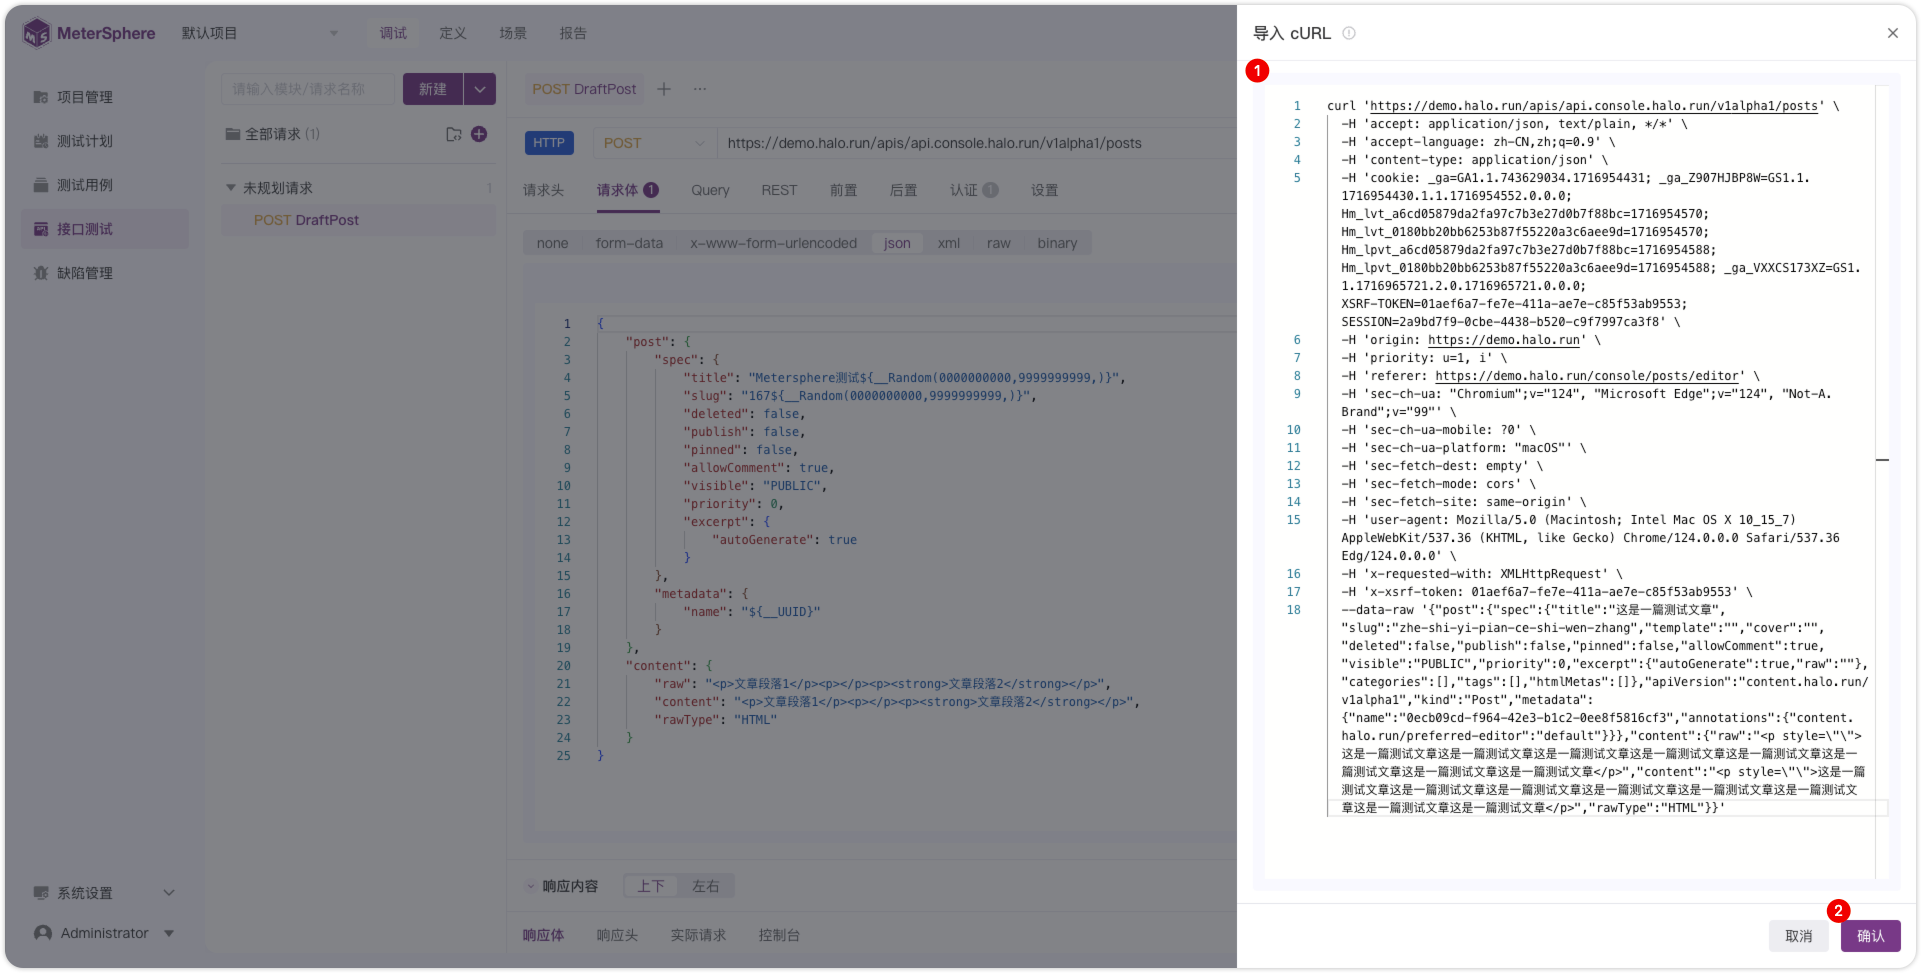
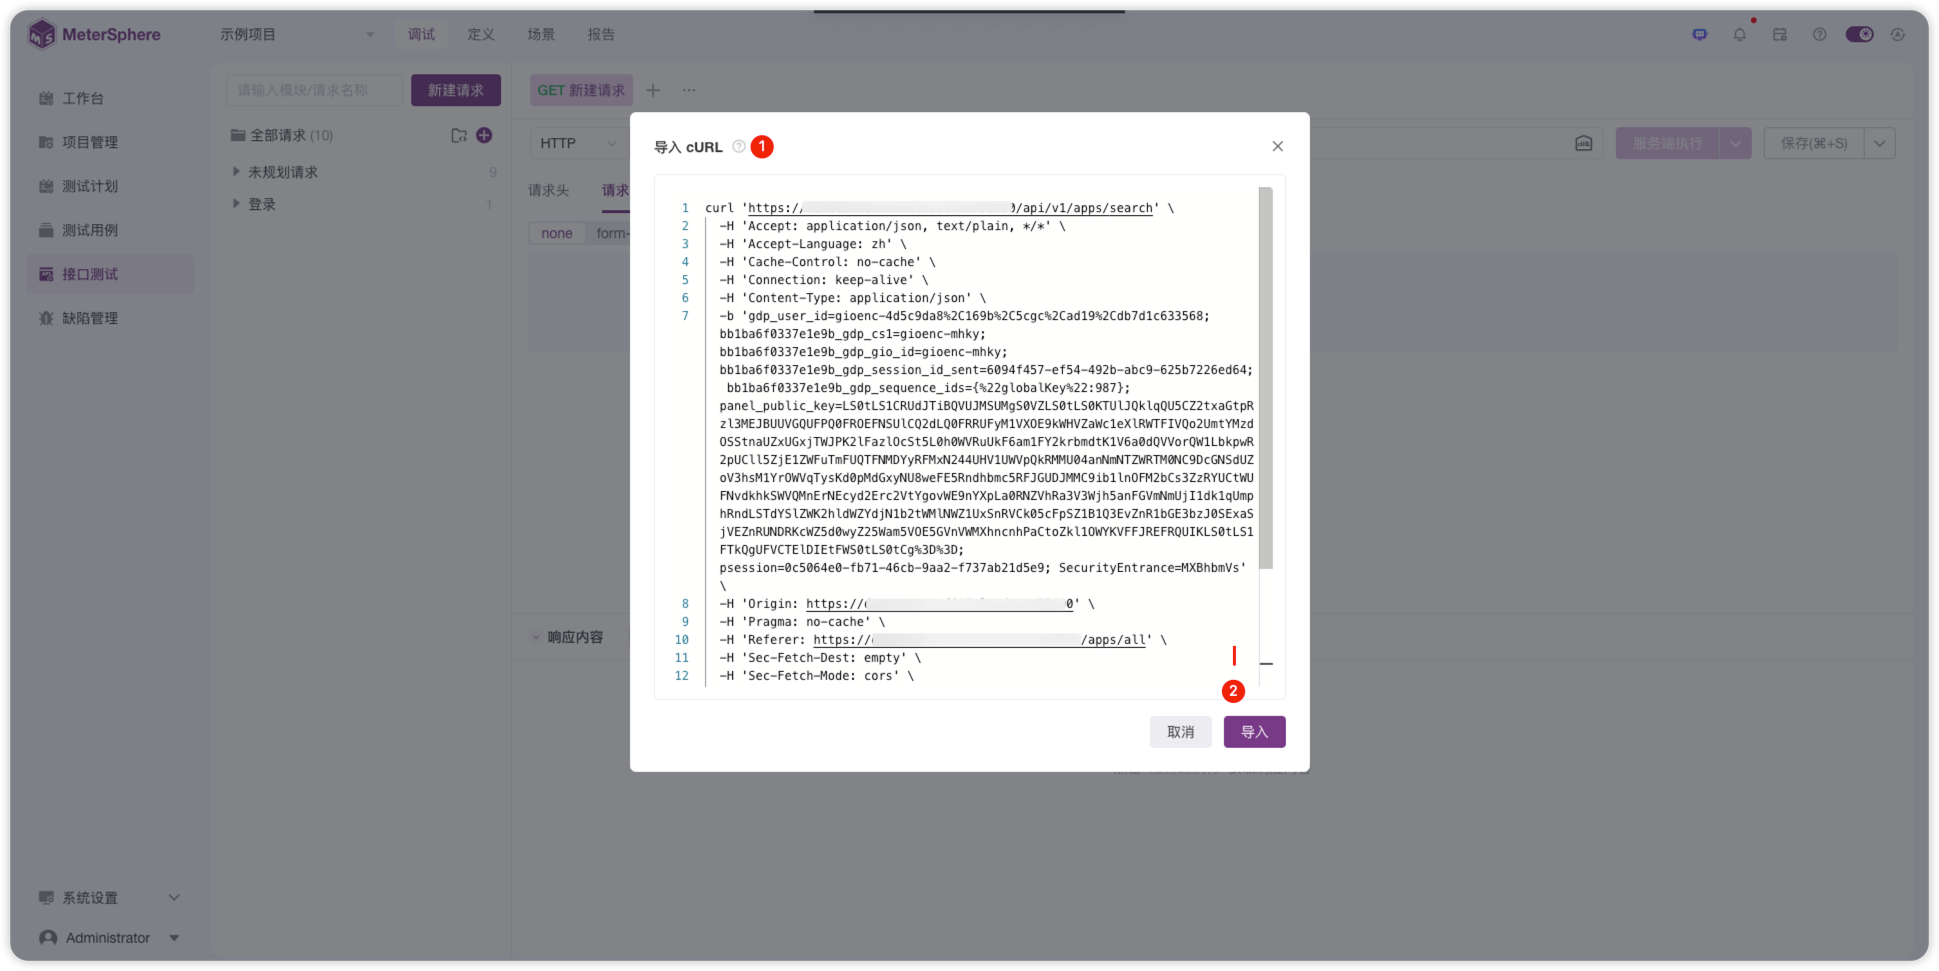
modefied:更新接口调试，导入cURL

diff --git a/docs/user_manual/api_test/debug.md b/docs/user_manual/api_test/debug.md
@@ -35,7 +35,7 @@
 ![!导入请求2](../../img/api_test/debug/导入请求2.png){ width="900px" }
 
 !!! ms-abstract "" 
-    录入上图复制的 cURL 请求信息，点击确认。
+    录入上图复制的 cURL 请求信息，点击导入。
 ![!导入请求3](../../img/api_test/debug/导入请求3.png){ width="900px" }    
 
 !!! ms-abstract "说明" 
